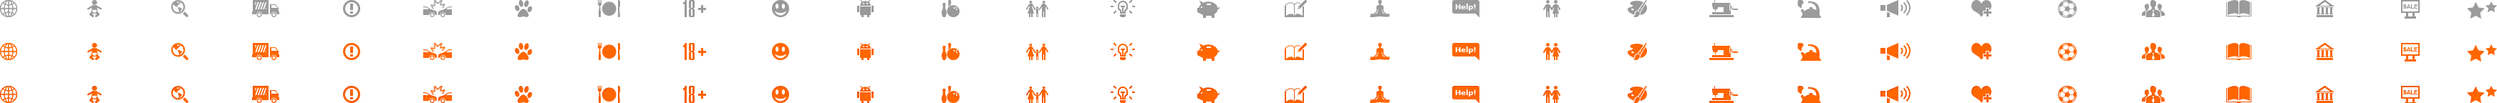
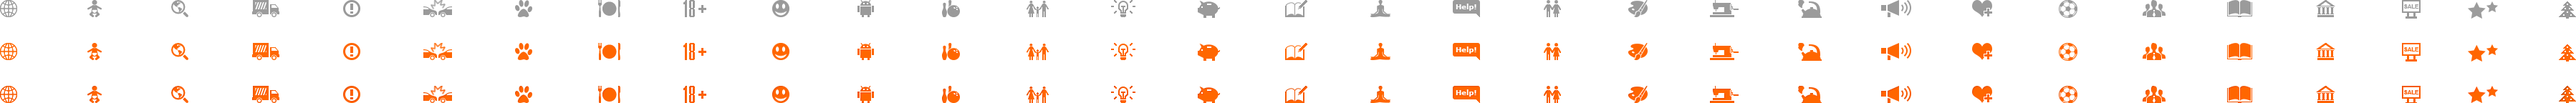
newyear category

Changed region(s): [[0.031, 0.4167, 1.0, 0.6111], [0.031, 0.8333, 1.0, 1.0], [0.031, 0.0, 1.0, 0.1944]]

diff --git a/app/assets/stylesheets/public/_review_filters.sass b/app/assets/stylesheets/public/_review_filters.sass
@@ -441,3 +441,17 @@
 
               &:hover
                 background-position: -3440px -62px
+
+        &.newyear
+          a
+            background-position: -3565px -2px
+
+            &:hover
+              background-position: -3565px -62px
+
+          &.selected
+            a
+              background-position: -3565px -120px
+
+              &:hover
+                background-position: -3565px -62px

diff --git a/config/routes/afisha.rb b/config/routes/afisha.rb
@@ -1,4 +1,4 @@
- # encoding: utf-8
+# encoding: utf-8
 
 Znaigorod::Application.routes.draw do
   mount Affiches::API => '/'
@@ -17,90 +17,89 @@ Znaigorod::Application.routes.draw do
       params.any? ? "/afisha_tomsk_segodnya?#{params.to_query}" : '/afisha_tomsk_segodnya'
     }
 
-  get "/afisha/bilety" => 'afishas#index', :as => :afisha_with_tickets_index, :defaults => {:has_tickets => true}
+    get "/afisha/bilety" => 'afishas#index', :as => :afisha_with_tickets_index, :defaults => {:has_tickets => true}
 
-  resources :afisha, :only => :show, :controller => 'afishas' do
-    resources :comments, :only => [:new, :show, :create]
-    resources :visits
+    resources :afisha, :only => :show, :controller => 'afishas' do
+      resources :comments, :only => [:new, :show, :create]
+      resources :visits
 
-    get 'liked' => 'votes#liked', :as => :liked
-    get 'photogallery' => 'afisha#photogallery', :as => :photogallery
-    get 'trailer' => 'afisha#trailer', :as => :trailer
+      get 'liked' => 'votes#liked', :as => :liked
+      get 'photogallery' => 'afisha#photogallery', :as => :photogallery
+      get 'trailer' => 'afisha#trailer', :as => :trailer
 
-    put 'change_vote' => 'votes#change_vote', :as => :change_vote
-    put 'destroy_visits' => 'visits#destroy_visits', :as => :destroy_visits
-  end
+      put 'change_vote' => 'votes#change_vote', :as => :change_vote
+      put 'destroy_visits' => 'visits#destroy_visits', :as => :destroy_visits
+    end
 
-  get "/afisha",
-  :constraints => lambda { |req| req.query_parameters.has_key?('has_tickets') },
-  :to =>  redirect { |params, req|
-    other_parameters = req.query_parameters.to_h
-    other_parameters.delete('has_tickets')
-    parameter_string = other_parameters.to_param
-    parameter_string.insert(0, "?") unless parameter_string.empty?
-    "/afisha/bilety" + parameter_string
-  }
-  get '/tickets', :to => redirect("/afisha/bilety")
-
-  get '/afisha' => 'afishas#index', :as => :afisha_index, :controller => 'afishas'
-  get '/afisha/:id' => 'afishas#show', :as => :afisha_show, :controller => 'afishas',
-    :constraints => lambda {|request| request.fullpath !~ /^\/afisha\/bilety/ }
-
-  get '/affiches', :to => redirect('/afisha')
-
-  Afisha.kind.values.map(&:pluralize).each do |kind|
-    get "/#{kind}",
+    get "/afisha",
       :constraints => lambda { |req| req.query_parameters.has_key?('has_tickets') },
       :to =>  redirect { |params, req|
         other_parameters = req.query_parameters.to_h
         other_parameters.delete('has_tickets')
         parameter_string = other_parameters.to_param
         parameter_string.insert(0, "?") unless parameter_string.empty?
-        "/#{kind.pluralize}/bilety" + parameter_string
+        "/afisha/bilety" + parameter_string
       }
-    get kind => 'afishas#index', :as => "#{kind}_index", :defaults => { :categories => [kind.singularize], :hide_categories => true }
-    get "/#{kind}/bilety" => 'afishas#index', :as => "#{kind}_with_tickets_index", :defaults => { :categories => [kind.singularize], :hide_categories => true, :has_tickets => true }
-    match "/#{kind}/all" => redirect("/#{kind}")
-  end
+      get '/tickets', :to => redirect("/afisha/bilety")
 
-  Afisha.kind.values.each do |kind|
-    get "#{kind}/:id", :to => redirect { |params, req|
-      "/afisha/#{params[:id]}"
-    }
-    get "#{kind}/:id/photogallery", :to => redirect { |params, req|
-      "/afisha/#{params[:id]}#photogallery"
-    }
-    get "#{kind}/:id/trailer", :to => redirect { |params, req|
-      "/afisha/#{params[:id]}#trailer"
-    }
-  end
+      get '/afisha' => 'afishas#index', :as => :afisha_index, :controller => 'afishas'
+      get '/afisha/:id' => 'afishas#show', :as => :afisha_show, :controller => 'afishas',
+        :constraints => lambda {|request| request.fullpath !~ /^\/afisha\/bilety/ }
 
-  get ':kind/:period/(:on)/(categories/*categories)/(tags/*tags)',
-    :kind => /movies|concerts|parties|spectacles|exhibitions|sportsevents|others|affiches|masterclasses/,
-    :period => /today|weekly|weekend|all|daily/,
-    :to => redirect { |params, req|
-      parameters = {}
-      parameters['categories'] = []
-      (params[:categories] || params[:kind] || "").split('/').each do |word|
-        parameters['categories'] << word
+      get '/affiches', :to => redirect('/afisha')
+
+      Afisha.kind.values.map(&:pluralize).each do |kind|
+        get "/#{kind}",
+          :constraints => lambda { |req| req.query_parameters.has_key?('has_tickets') },
+          :to =>  redirect { |params, req|
+            other_parameters = req.query_parameters.to_h
+            other_parameters.delete('has_tickets')
+            parameter_string = other_parameters.to_param
+            parameter_string.insert(0, "?") unless parameter_string.empty?
+            "/#{kind.pluralize}/bilety" + parameter_string
+          }
+          get kind => 'afishas#index', :as => "#{kind}_index", :defaults => { :categories => [kind.singularize], :hide_categories => true }
+          get "/#{kind}/bilety" => 'afishas#index', :as => "#{kind}_with_tickets_index", :defaults => { :categories => [kind.singularize], :hide_categories => true, :has_tickets => true }
+          match "/#{kind}/all" => redirect("/#{kind}")
       end
-      period = case params[:period]
-               when 'weekly'
-                 'week'
-               when 'daly'
-                 'all'
-               else
-                 params[:period]
-               end
-      url = "/afisha?order_by=popularity&view=posters"
-      url += "&period=#{period}"
-      parameters['categories'].each do |cat|
-        url += "&categories[]=#{cat.singularize}"
-      end
-      URI.encode(url)
-    }
 
-    get 'newyears' => 'afishas#index', :as => "newyears_index", :defaults => { :categories => ['newyear'], :hide_categories => true }
-    get 'newyears/bilety', :to => redirect('/afisha/bilety')
-    post 'similar_afishas' => 'similar_afishas#index', :as => 'similar_afishas'
+      Afisha.kind.values.each do |kind|
+        get "#{kind}/:id", :to => redirect { |params, req|
+          "/afisha/#{params[:id]}"
+        }
+        get "#{kind}/:id/photogallery", :to => redirect { |params, req|
+          "/afisha/#{params[:id]}#photogallery"
+        }
+        get "#{kind}/:id/trailer", :to => redirect { |params, req|
+          "/afisha/#{params[:id]}#trailer"
+        }
+      end
+
+      get ':kind/:period/(:on)/(categories/*categories)/(tags/*tags)',
+        :kind => /movies|concerts|parties|spectacles|exhibitions|sportsevents|others|affiches|masterclasses/,
+        :period => /today|weekly|weekend|all|daily/,
+        :to => redirect { |params, req|
+          parameters = {}
+          parameters['categories'] = []
+          (params[:categories] || params[:kind] || "").split('/').each do |word|
+            parameters['categories'] << word
+          end
+          period = case params[:period]
+                   when 'weekly'
+                     'week'
+                   when 'daly'
+                     'all'
+                   else
+                     params[:period]
+                   end
+          url = "/afisha?order_by=popularity&view=posters"
+          url += "&period=#{period}"
+          parameters['categories'].each do |cat|
+            url += "&categories[]=#{cat.singularize}"
+          end
+          URI.encode(url)
+        }
+
+        get 'afisha_newyear' => 'afishas#index', :as => "newyears_index", :defaults => { :categories => ['newyear'], :hide_categories => true }
+        post 'similar_afishas' => 'similar_afishas#index', :as => 'similar_afishas'
 end

diff --git a/app/models/reviews/review.rb b/app/models/reviews/review.rb
@@ -65,7 +65,7 @@ class Review < ActiveRecord::Base
   default_value_for :only_tomsk,           false
 
   enumerize :categories,
-    :in => [:children, :interesting, :auto, :accidents, :crash, :animals, :cookery,
+    :in => [:newyear, :children, :interesting, :auto, :accidents, :crash, :animals, :cookery,
             :eighteen_plus, :humor, :hi_tech, :entertainment, :family, :lifehack,
             :economy, :complaints_book, :spirituality, :help, :men_and_women, :creation,
             :handmade, :boiling, :good_news, :health, :sport, :policy, :studies, :abiturient,

diff --git a/app/models/afisha.rb b/app/models/afisha.rb
@@ -55,7 +55,7 @@ class Afisha < ActiveRecord::Base
 
   serialize :kind, Array
   enumerize :kind,
-    in: [:child, :movie, :concert, :party,
+    in: [:newyear, :child, :movie, :concert, :party,
          :spectacle, :exhibition, :training,
          :masterclass, :sportsevent, :competition, :other],
     multiple: true,
